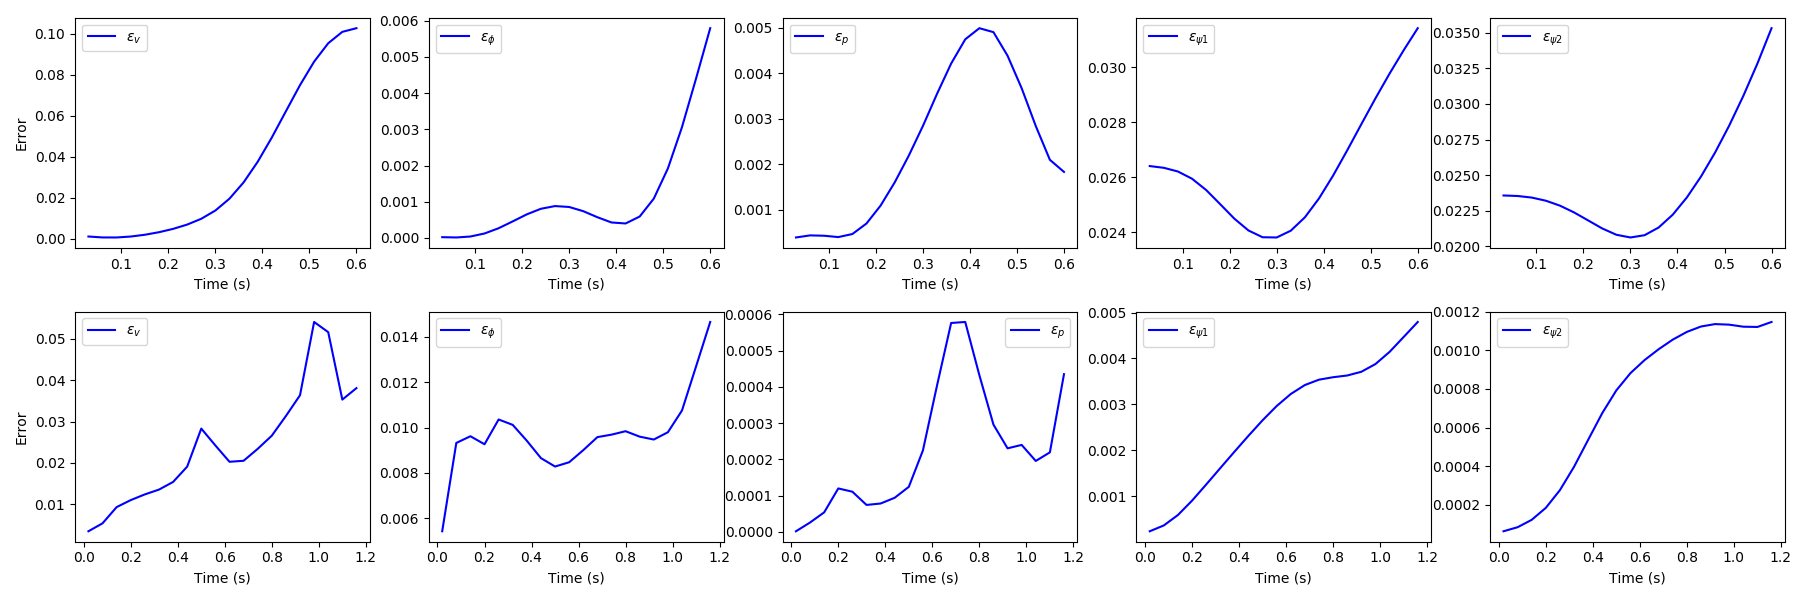
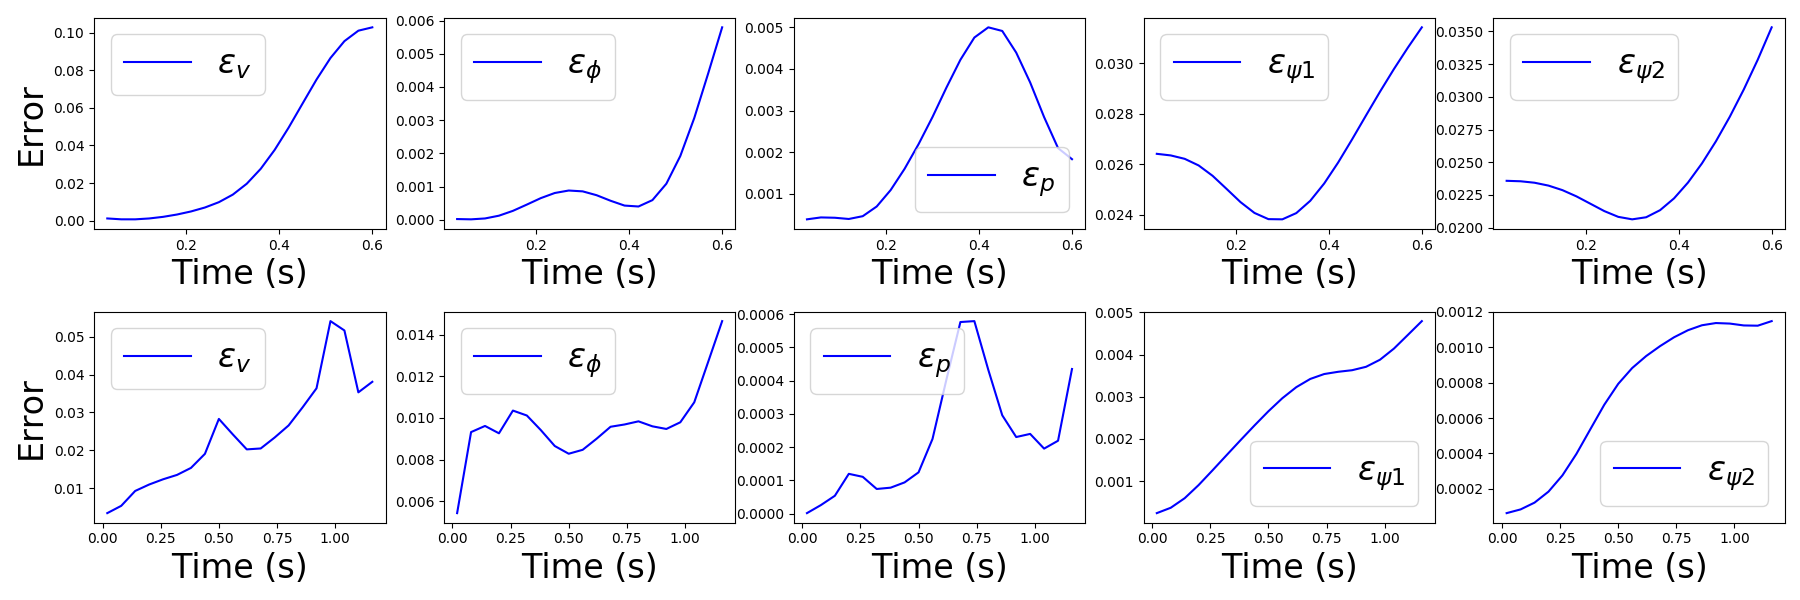
.

diff --git a/Thrombus/Plot/membrane/err_time.py b/Thrombus/Plot/membrane/err_time.py
@@ -87,47 +87,47 @@ def main():
    
    ##(0, 0)
    ax1.plot(t, vel_err, label='$\epsilon_{v}$', color='blue')
-   ax1.set_ylabel('Error')
-   ax1.set_xlabel('Time (s)')
-   ax1.legend()
+   ax1.set_ylabel('Error', fontsize=24)
+   ax1.set_xlabel('Time (s)', fontsize=24)
+   ax1.legend(fontsize=24)
 
    ax2.plot(t, phi_err, label='$\epsilon_{\phi}$', color='blue')
-   ax2.set_xlabel('Time (s)')
-   ax2.legend()
+   ax2.set_xlabel('Time (s)', fontsize=24)
+   ax2.legend(fontsize=24)
 
    ax3.plot(t, p_err, label='$\epsilon_{p}$', color='blue')
-   ax3.set_xlabel('Time (s)')
-   ax3.legend()
+   ax3.set_xlabel('Time (s)', fontsize=24)
+   ax3.legend(fontsize=24)
 
    ax4.plot(t, psi1_err, label='$\epsilon_{\psi1}$', color='blue')
-   ax4.set_xlabel('Time (s)')
-   ax4.legend()
+   ax4.set_xlabel('Time (s)', fontsize=24)
+   ax4.legend(fontsize=24)
 
    ax5.plot(t, psi2_err, label='$\epsilon_{\psi2}$', color='blue')
-   ax5.set_xlabel('Time (s)')
-   ax5.legend()
+   ax5.set_xlabel('Time (s)', fontsize=24)
+   ax5.legend(fontsize=24)
 
    ##(1, 0)
    ax6.plot(t1, v_film_err, label='$\epsilon_{v}$', color='blue')
-   ax6.set_ylabel('Error')
-   ax6.set_xlabel('Time (s)')
-   ax6.legend()
+   ax6.set_ylabel('Error', fontsize=24)
+   ax6.set_xlabel('Time (s)', fontsize=24)
+   ax6.legend(fontsize=24)
 
    ax7.plot(t1, phi_film_err, label='$\epsilon_{\phi}$', color='blue')
-   ax7.set_xlabel('Time (s)')
-   ax7.legend()
+   ax7.set_xlabel('Time (s)', fontsize=24)
+   ax7.legend(fontsize=24)
 
    ax8.plot(t1, p_film_err, label='$\epsilon_{p}$', color='blue')
-   ax8.set_xlabel('Time (s)')
-   ax8.legend()
+   ax8.set_xlabel('Time (s)', fontsize=24)
+   ax8.legend(fontsize=24)
 
    ax9.plot(t1, psi1_film_err, label='$\epsilon_{\psi1}$', color='blue')
-   ax9.set_xlabel('Time (s)')
-   ax9.legend()
+   ax9.set_xlabel('Time (s)', fontsize=24)
+   ax9.legend(fontsize=24)
 
    ax10.plot(t1, psi2_film_err, label='$\epsilon_{\psi2}$', color='blue')
-   ax10.set_xlabel('Time (s)')
-   ax10.legend()
+   ax10.set_xlabel('Time (s)', fontsize=24)
+   ax10.legend(fontsize=24)
 
    plt.tight_layout()
    plt.savefig('fig_err_time.png')
